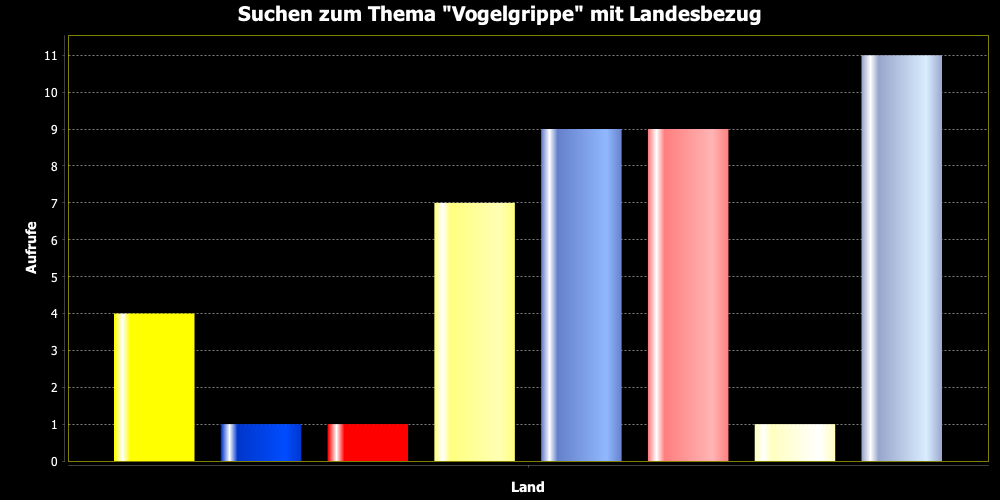
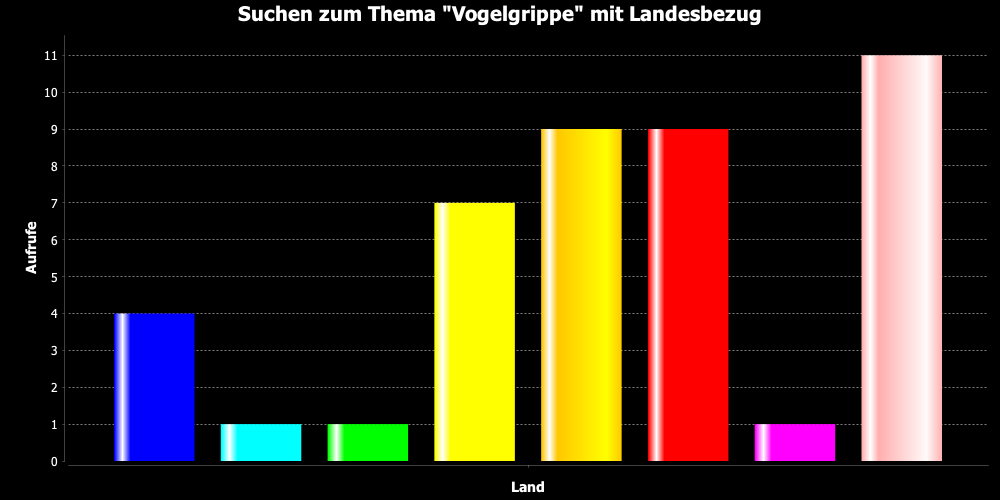
Pie Chart improvements

Changed region(s): [[0.093, 0.09, 0.961, 0.93]]

diff --git a/src/birdflu/ChartPlotter.java b/src/birdflu/ChartPlotter.java
@@ -15,6 +15,8 @@ import java.util.logging.Logger;
 import org.jfree.chart.ChartTheme;
 import org.jfree.chart.ChartUtils;
 import org.jfree.chart.StandardChartTheme;
+import org.jfree.chart.plot.DefaultDrawingSupplier;
+import org.jfree.chart.plot.PieLabelLinkStyle;
 
 /**
  * Class for generating charts for the semester project "Bird Flu"
@@ -79,14 +81,14 @@ public class ChartPlotter {
 		chrtLogger.addHandler(handler);
 		fileLogger.addHandler(handler);
 		
-		ChartPlotter plotter = new ChartPlotter(true);
+		ChartPlotter plotter = new ChartPlotter(false);
 		for(BirdFluChart chart : plotter.createCharts()) {
 			plotter.saveChart(chart);
 		}
 	}
 	
 	public ChartPlotter(boolean createNewTables) {
-		if(createNewTables) { CreateTable.init(); }
+		if(createNewTables) { CreateTable.create(); }
 	}
 	
 	/**
@@ -143,10 +145,11 @@ public class ChartPlotter {
 			throws NoSuchElementException, NumberFormatException {
 		
 		String chartType = in.nextLine();
+		int threshold = Integer.parseInt(in.nextLine());
+		String title = in.nextLine();
 		
 		switch (chartType) {
 			case "LineChartPCM":
-				String pcmTitle = in.nextLine();
 				String pcmXaxis = in.nextLine();
 				String pcmYaxis = in.nextLine();
 				String dividendQuery = in.nextLine();
@@ -154,21 +157,19 @@ public class ChartPlotter {
 				Logger.getLogger("File Logger").fine(filename + " read succesfully");
 				return LineChart.createLineChartPCM
 						(filename, new Query(dividendQuery), new Query(divisorQuery),
-								pcmTitle, pcmXaxis, pcmYaxis);
+								title, pcmXaxis, pcmYaxis);
 			case "PieChart":
-				String pieTitle = in.nextLine();
 				String pieQuery = in.nextLine();
 				Logger.getLogger("File Logger").fine(filename + " read succesfully");
-				return PieChart.createPieChart(filename, new Query(pieQuery), pieTitle);
+				return PieChart.createPieChart(filename, new Query(pieQuery), title,
+						threshold);
 			case "BarChart":
-				int threshold = Integer.parseInt(in.nextLine());
-				String barTitle = in.nextLine();
 				String catAxis = in.nextLine();
 				String valAxis = in.nextLine();
 				boolean horizontal = (Integer.parseInt(in.nextLine()) != 0) ? true : false;
 				String barQuery = in.nextLine();
 				Logger.getLogger("File Logger").fine(filename + " read succesfully");
-				return BarChart.createBarChart(filename, new Query(barQuery), barTitle,
+				return BarChart.createBarChart(filename, new Query(barQuery), title,
 						catAxis, valAxis, horizontal, threshold);
 			default:
 				return null;
@@ -199,6 +200,29 @@ public class ChartPlotter {
 	}
 	
 	public static ChartTheme getTheme() {
-		return StandardChartTheme.createDarknessTheme();
+		StandardChartTheme theme = new StandardChartTheme("Bird Flu");
+		theme.setTitlePaint(Colors.TEXT);
+        theme.setSubtitlePaint(Colors.TEXT);
+        theme.setLegendBackgroundPaint(Colors.BACKGROUND);
+        theme.setLegendItemPaint(Colors.TEXT);
+        theme.setChartBackgroundPaint(Colors.BACKGROUND);
+        theme.setPlotBackgroundPaint(Colors.BACKGROUND);
+        theme.setPlotOutlinePaint(Colors.BACKGROUND);
+        theme.setBaselinePaint(Colors.LINE);
+        theme.setLabelLinkStyle(PieLabelLinkStyle.STANDARD);
+        theme.setLabelLinkPaint(Colors.LINE);
+        theme.setTickLabelPaint(Colors.TEXT);
+        theme.setAxisLabelPaint(Colors.TEXT);
+        theme.setShadowVisible(false);
+        theme.setItemLabelPaint(Colors.TEXT);
+        theme.setDrawingSupplier(new DefaultDrawingSupplier(
+                Colors.FILL_SEQUENCE, Colors.FILL_SEQUENCE,
+                DefaultDrawingSupplier.DEFAULT_OUTLINE_PAINT_SEQUENCE,
+                DefaultDrawingSupplier.DEFAULT_STROKE_SEQUENCE,
+                DefaultDrawingSupplier.DEFAULT_OUTLINE_STROKE_SEQUENCE,
+                DefaultDrawingSupplier.DEFAULT_SHAPE_SEQUENCE));
+        theme.setGridBandPaint(Colors.LINE);
+        return theme;
+//		return StandardChartTheme.createDarknessTheme();
 	}
 }

diff --git a/src/birdflu/PieChart.java b/src/birdflu/PieChart.java
@@ -7,6 +7,8 @@ import org.jfree.chart.JFreeChart;
 import org.jfree.chart.labels.StandardPieSectionLabelGenerator;
 import org.jfree.chart.plot.PiePlot;
 import org.jfree.chart.ui.RectangleInsets;
+import org.jfree.chart.util.Rotation;
+import org.jfree.chart.util.SortOrder;
 import org.jfree.data.general.DefaultPieDataset;
 import org.jfree.data.general.PieDataset;
 
@@ -17,10 +19,13 @@ public class PieChart implements BirdFluChart {
 	
 	protected JFreeChart chart;
 	protected String filename;
+	protected int threshold;
 	
-	private PieChart(String filename, HashMap<String, Integer> source, String title) {
+	private PieChart(String filename, HashMap<String, Integer> source, String title,
+			int threshold) {
 		
 		this.filename = filename;
+		this.threshold = threshold;
 		chart = initChart(source, title);
 	}
 	
@@ -29,9 +34,9 @@ public class PieChart implements BirdFluChart {
 		PieDataset dataset = initDataset(source);
 		
 		PiePlot plot = new PiePlot(dataset);
-		plot.setLabelGenerator(new StandardPieSectionLabelGenerator());
+		plot.setLabelGenerator(new StandardPieSectionLabelGenerator("{0} ({2})"));
 		plot.setInsets(new RectangleInsets(0.0, 5.0, 5.0, 5.0));
-		
+		plot.setDirection(Rotation.CLOCKWISE);
 		JFreeChart chart = new JFreeChart(title, JFreeChart.DEFAULT_TITLE_FONT, plot, false);
         ChartPlotter.getTheme().apply(chart);
         
@@ -41,16 +46,26 @@ public class PieChart implements BirdFluChart {
 	private PieDataset initDataset(HashMap<String, Integer> source) {
 		
 		DefaultPieDataset dataset = new DefaultPieDataset();
+		int other = 0;
 		
 		for(String key : source.keySet()) {
-			dataset.setValue(key, source.get(key));
+			Integer value = source.get(key);
+			if(value > threshold) {
+				dataset.setValue("\"" + key + "\"", value);
+			} else {
+				other += value;
+			}
 		}
+		if(other > 0) { dataset.setValue("Andere Suchbegriffe", other); }
+		
+		dataset.sortByValues(SortOrder.DESCENDING);
 		
 		return dataset;
 		
 	}
 	
-	public static PieChart createPieChart(String filename, Query query, String title) {
+	public static PieChart createPieChart(String filename, Query query, String title,
+			int threshold) {
 		
 		HashMap<String, Integer> source = null;
 		
@@ -64,7 +79,7 @@ public class PieChart implements BirdFluChart {
 		}
 		
 		if(source != null) {
-			return new PieChart(filename, source, title);
+			return new PieChart(filename, source, title, threshold);
 		} else {
 			Logger.getLogger("Chart Logger").warning
 			("Could not create PieChart for " + filename);

diff --git a/src/birdflu/Colors.java b/src/birdflu/Colors.java
@@ -1,0 +1,17 @@
+package birdflu;
+
+import java.awt.Color;
+import java.awt.Paint;
+
+public final class Colors {
+	
+	protected static final Paint BACKGROUND = Color.BLACK;
+	protected static final Paint TEXT = Color.WHITE;
+	protected static final Paint LINE = Color.GRAY;
+	
+	protected static final Paint[] FILL_SEQUENCE = {
+			Color.BLUE, Color.CYAN, Color.GREEN, Color.YELLOW, Color.ORANGE,
+			Color.RED, Color.MAGENTA, Color.PINK
+			};
+
+}

diff --git a/src/birdflu/BarChart.java b/src/birdflu/BarChart.java
@@ -49,7 +49,7 @@ public class BarChart implements BirdFluChart {
 				dataset.addValue(value, key, "");
 			}
 		}
-				
+		
 		return dataset;
 		
 	}
